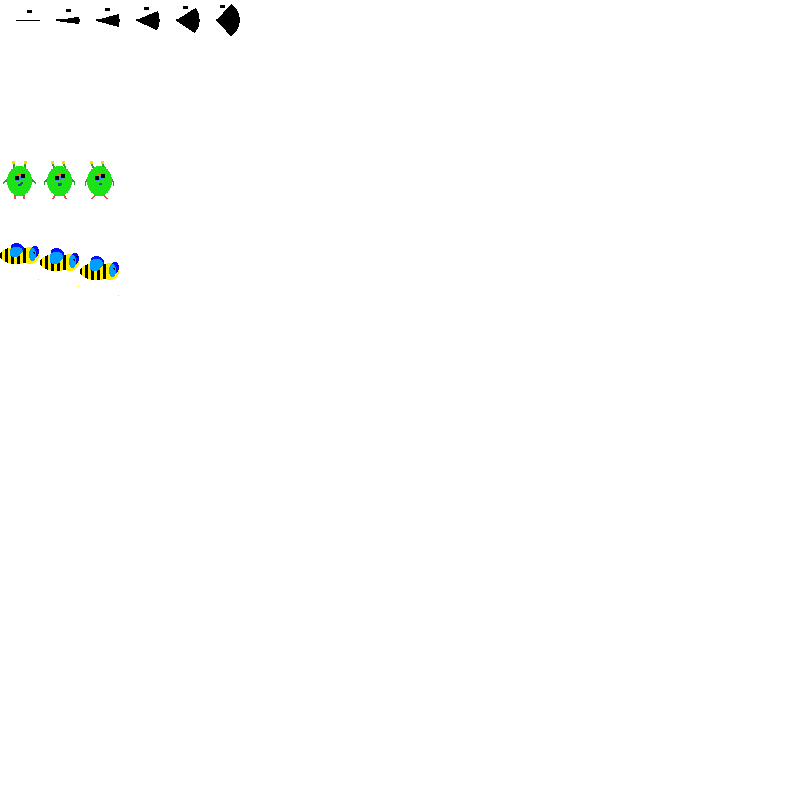
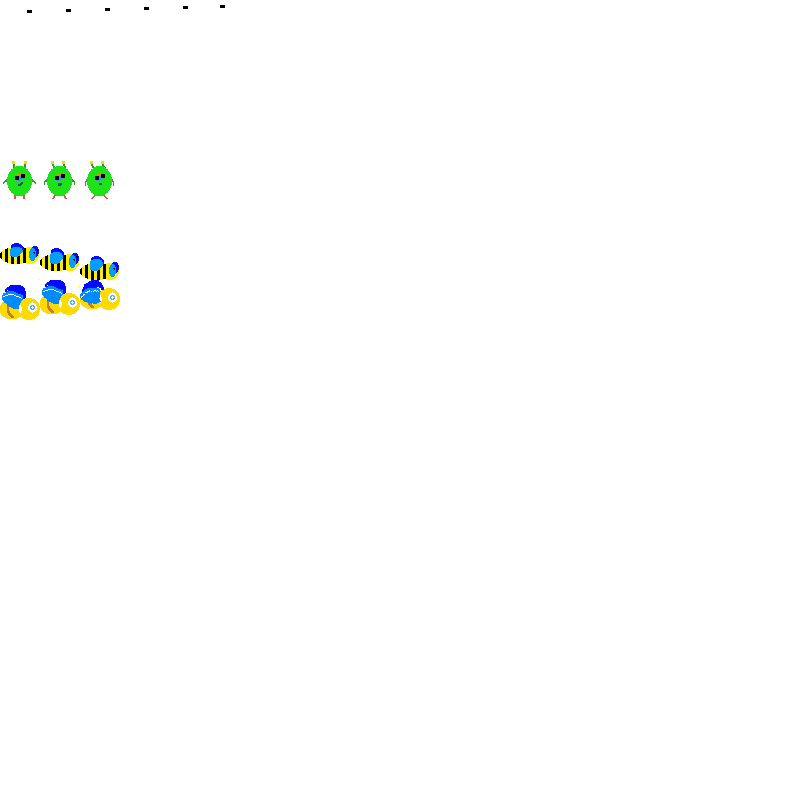
New sprites and enemies

Changed region(s): [[0.0, 0.3438, 0.1562, 0.4062], [0.125, 0.0, 0.3125, 0.0625], [0.0625, 0.0, 0.0938, 0.0312]]

diff --git a/simple-game/game.cpp b/simple-game/game.cpp
@@ -229,7 +229,7 @@ void moveEnemy()
   }
 
   // Debug. Remove later
-  std::cout << "Enemy direction: " << printDir(enemy1Dir) << std::endl;
+  // std::cout << "Enemy direction: " << printDir(enemy1Dir) << std::endl;
   //////////////////////////////////////////////////////////////////////
 
   enemy1->setDirection(enemy1Dir).
@@ -238,7 +238,7 @@ void moveEnemy()
     setFame(frameCount).
     paintAnimationFrame();
 
-  enemy0->moveEnemy().paint();
+  enemy0->moveEnemy().setDirection(currSprtDir).setFame(frameCount).paintAnimationFrame();
 }
 
 /// Choose next sprite direction when in a crossroad.
@@ -362,11 +362,11 @@ void createHero()
 void createEnemy()
 {
   enemy1 = std::make_unique<Sprite>();
-  enemy1->setTexture(6, 0).setFPS(FPS);
+  enemy1->setTexture(7, 0).setFPS(FPS);
   enemy1->setPixelPos(enemy1X, enemy1Y);
 
   enemy0 = std::make_unique<Enemy>();
-  enemy0->setTexture(6, 0).setFPS(FPS);
+  enemy0->setTexture(7, 0).setFPS(FPS);
   enemy0->setPixelPos(0, 200);
   enemy0->setBehaviour(0);
 }

diff --git a/simple-game/enemy.cpp b/simple-game/enemy.cpp
@@ -4,13 +4,16 @@ void Enemy::setBehaviour(size_t behavior)
 {
   std::function<void()> behaviour0 = [this]()
   {
-    Position2D pos = getPos();
-    if ( pos.x < 40)
+    size_t screenX, screenY;
+    getPixelPos(screenX, screenY);
+    if ( screenX < 200)
     {
-      setPos(pos.x + 1, pos.y);
+      setPixelPos(screenX + 1, screenY);
 
       // Debug. Remove later.
-      std::cout << "Enemy pos x = " << pos.x << std::endl;
+      Position2D pos = getPos();
+      std::cout << "Enemy sceen x = " << screenX
+                << " pos.x = " << pos.x << std::endl;
     }
   };
 
